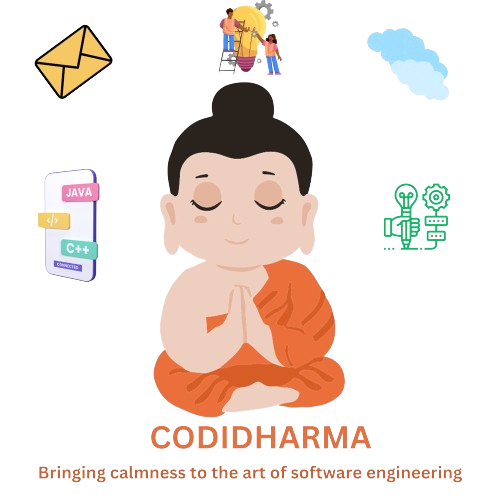
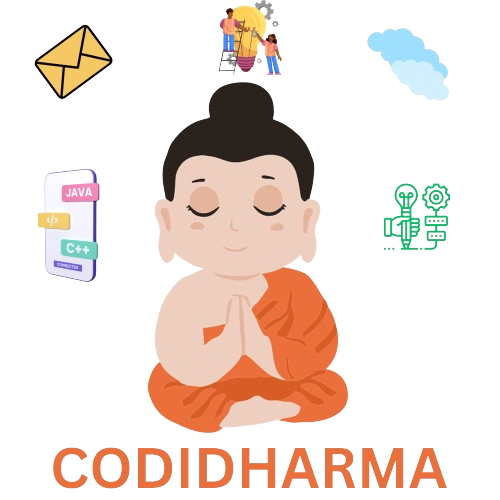
Updated the subscribe message

diff --git a/assets/sass/newsletter/_intro.scss b/assets/sass/newsletter/_intro.scss
@@ -1,6 +1,7 @@
 #intro h1 {
   padding: 0;
   margin: 0;
+  color: #D75C26;
   
 }
 
